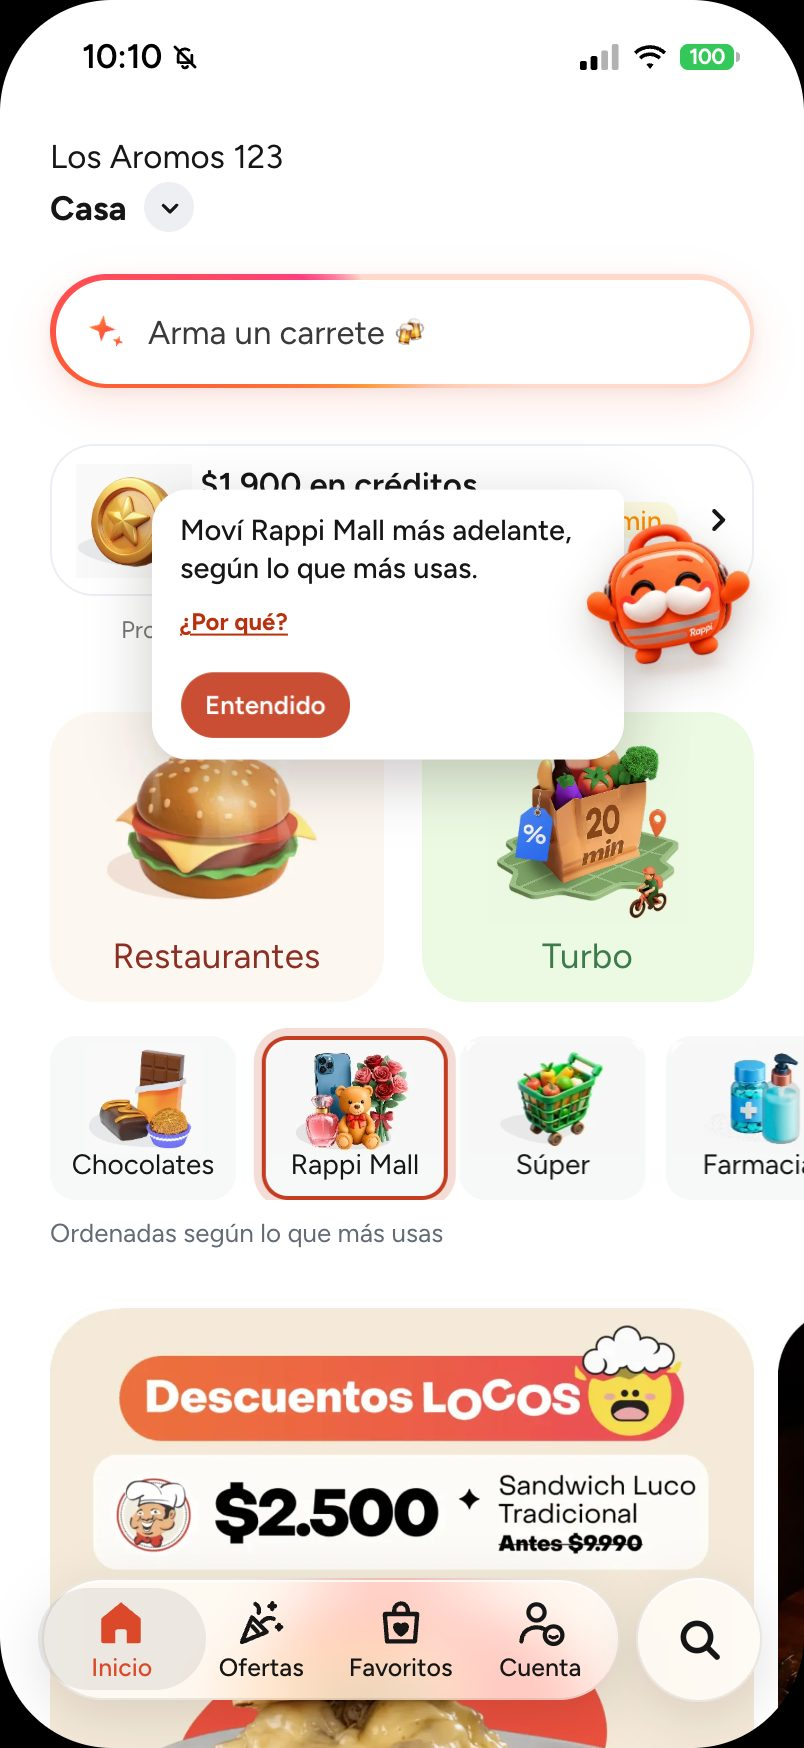
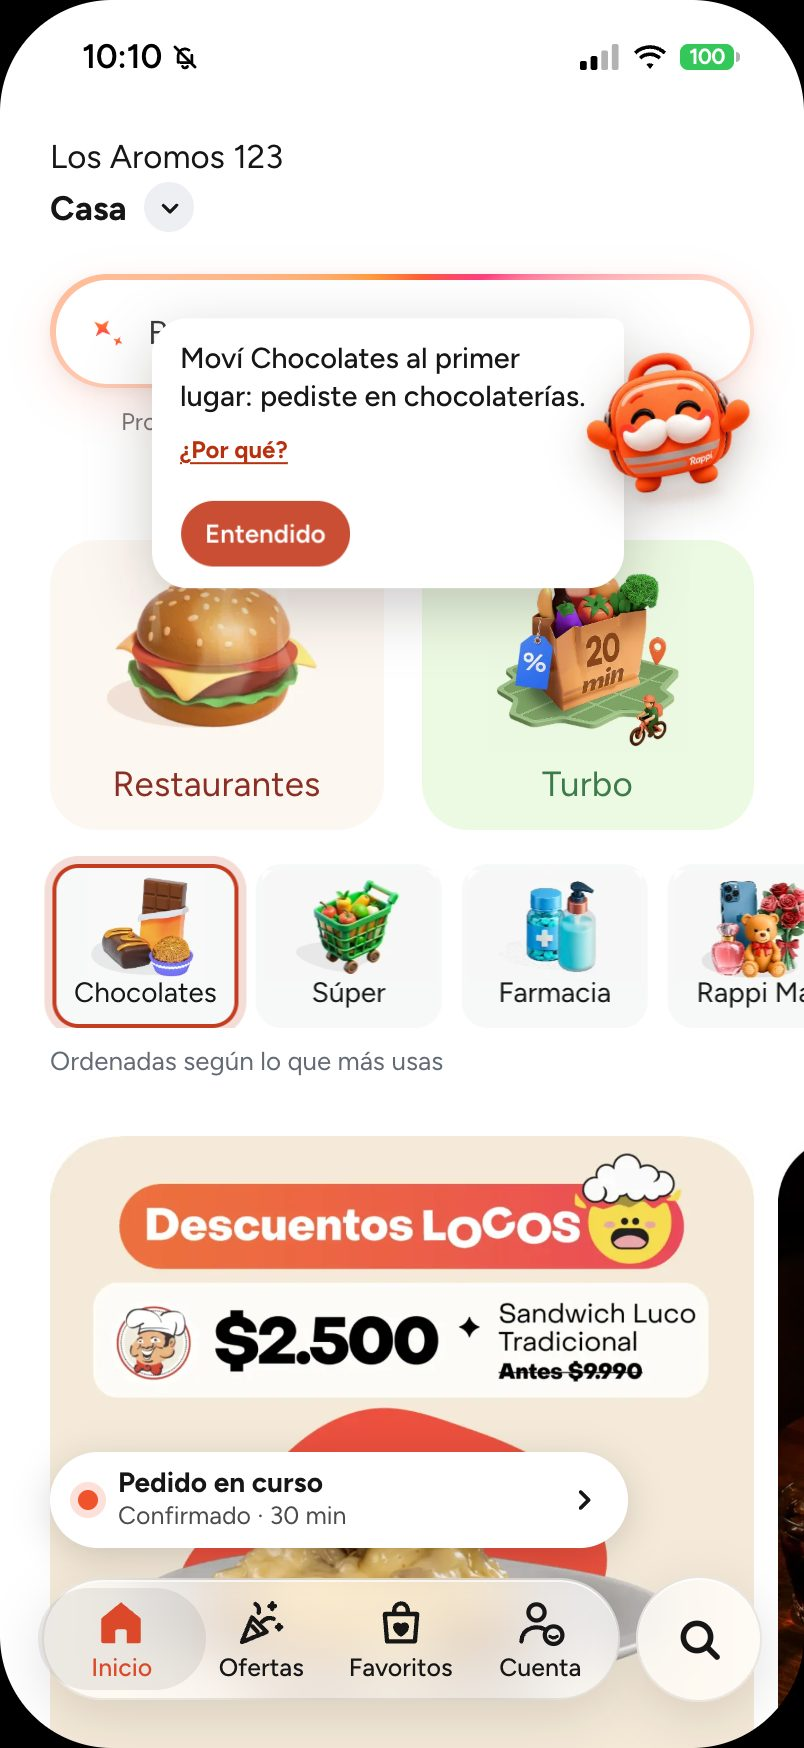
fix(screenshots): la Home dinámica vuelve del seguimiento y espera el pedido
Tras pagar, la app queda en el seguimiento (la Home debajo, oculta y sin la
barra de abajo): tab('Inicio') no llegaba y el script se caía antes de 03, 22
y 21. Ahora vuelve con "Volver al inicio" o la flecha, como checkHome de
mvp-check, y placeOrder espera el POST /orders en vez de 5,5 s fijos. El
producto de Chocolates sale de las filas de la vertical (la primera tienda del
catálogo real tenía todo agotado). Capturas 03, 22 y 21 nuevas, con sus textos
y alt en los README, y "paga dos compras" donde decía una.

diff --git a/prototipo-app/README.md b/prototipo-app/README.md
@@ -8,7 +8,7 @@ Hecho con Vite + React 19. **Necesita la API de [`rappi-ia`](../rappi-ia/)**: si
 
 ![Modo demo: la misma app en el prototipo final y en "Rappi hoy"](docs/screenshots/00-modo-demo.jpg)
 
-*Las capturas de las pantallas se tomaron el 03-11-2026 con la API corriendo sobre una copia de la base (`rappi_staging`) y el catálogo real (`npm run screenshots`); solo la ficha de Mochi es anterior. "¿Repetimos?" sale de la respuesta de ejemplo del contrato con un café real del catálogo: es una ilustración, no un hábito medido. Como el recorrido paga una compra y deja un pedido y sus eventos (`source = 'prototype'`) en la base que use la API, `npm run screenshots` se niega a correr sin `SCREENSHOTS_ALLOW_WRITES=1`: se corre con la API sobre `rappi_staging`, nunca sobre `rappi`.*
+*Las capturas de las pantallas se tomaron el 03-11-2026 (la Home que aprende, la vertical por probar y "¿Repetimos?", el 09-11-2026) con la API corriendo sobre una copia de la base (`rappi_staging`) y el catálogo real (`npm run screenshots`); solo la ficha de Mochi es anterior. "¿Repetimos?" sale de la respuesta de ejemplo del contrato con un café real del catálogo: es una ilustración, no un hábito medido. Como el recorrido paga dos compras (una en Ofertas y otra en Chocolates, para la Home dinámica) y deja sus pedidos y eventos (`source = 'prototype'`) en la base que use la API, `npm run screenshots` se niega a correr sin `SCREENSHOTS_ALLOW_WRITES=1`: se corre con la API sobre `rappi_staging`, nunca sobre `rappi`.*
 
 ## Cómo correrlo
 
@@ -61,7 +61,7 @@ Si la API se cae con la app ya abierta, el buscador con Mochi dice "Sin conexió
 | `npm run format` | Formato con Prettier |
 | `npm run format:check` | Revisa el formato sin cambiar nada (lo que corre el CI) |
 | `npm run build` | Build de producción en `dist/` |
-| `npm run screenshots` | Regenera las capturas de este README con el Chrome instalado (`CHROME_PATH` o `PLAYWRIGHT_CHANNEL` eligen otro). Necesita el MVP corriendo sobre una copia de la base (`DATABASE_URL=postgresql:///rappi_staging make mvp`), o una API sobre la copia en otro puerto (`VITE_API_URL`), y `SCREENSHOTS_ALLOW_WRITES=1`, porque paga una compra: sin la variable se niega |
+| `npm run screenshots` | Regenera las capturas de este README con el Chrome instalado (`CHROME_PATH` o `PLAYWRIGHT_CHANNEL` eligen otro). Necesita el MVP corriendo sobre una copia de la base (`DATABASE_URL=postgresql:///rappi_staging make mvp`), o una API sobre la copia en otro puerto (`VITE_API_URL`), y `SCREENSHOTS_ALLOW_WRITES=1`, porque paga dos compras (una en Ofertas y otra en Chocolates): sin la variable se niega |
 | `npm run demo:snapshot` | Graba la muestra del catálogo para la demo sin conexión desde una API sobre una copia de la base (ver "Demo sin conexión") |
 | `npm run demo:html` | Arma "Prototipo MVP.html": la app en un solo archivo, sin la API (ver "Demo sin conexión") |
 | `node scripts/make-icons.mjs` | Regenera los íconos de la app instalada (`public/`: manifiesto, iPhone y pestaña) desde la pose de frente de `src/assets/mochi-poses.webp`, sin el logo que trae la mochila, con el Chrome instalado |
@@ -126,8 +126,8 @@ La Home del prototipo final se ordena según cada persona, con el [motor multive
 
 | Home que aprende | Mochi propone una vertical | ¿Repetimos? |
 |:---:|:---:|:---:|
-| <img src="docs/screenshots/03-home-dinamica.jpg" width="240" alt="Home con los accesos reordenados: Chocolates y Rappi Mall primero, con la leyenda &quot;Ordenadas según lo que más usas&quot;"> | <img src="docs/screenshots/22-vertical-por-probar.jpg" width="240" alt="Mochi en la Home pregunta &quot;¿Y si pruebas algo de Súper?&quot; y, en &quot;¿Por qué?&quot;, dice &quot;Porque aún no pides en el súper&quot;"> | <img src="docs/screenshots/21-recompra.jpg" width="240" alt="Bloque de ejemplo &quot;¿Repetimos café? Pides cada 7 días.&quot; con un café molido del catálogo, Ver producto y Después"> |
-| Tras abrir dos veces Chocolates y una vez Rappi Mall, esos accesos suben. | Esa persona nunca pidió: Mochi le propone el súper y dice por qué. | Ilustración con la respuesta de ejemplo del contrato y un café real del catálogo; no es un hábito medido. |
+| <img src="docs/screenshots/03-home-dinamica.jpg" width="240" alt="Home tras un pedido en Chocolates: Chocolates sube al primer lugar, con la leyenda &quot;Ordenadas según lo que más usas&quot; y Mochi diciendo &quot;Moví Chocolates al primer lugar: pediste en chocolaterías.&quot;"> | <img src="docs/screenshots/22-vertical-por-probar.jpg" width="240" alt="Mochi en la Home pregunta &quot;¿Y si pruebas algo de Restaurantes?&quot; y, en &quot;¿Por qué?&quot;, dice &quot;Porque aún no pides en restaurantes: esto es lo que más se pide.&quot;"> | <img src="docs/screenshots/21-recompra.jpg" width="240" alt="Bloque de ejemplo &quot;¿Repetimos café? Pides cada 7 días.&quot; con un café molido del catálogo, Ver producto y Después"> |
+| Tras un pedido en Chocolates, Chocolates sube y Mochi dice por qué (abrir un acceso varias veces el mismo día no lo mueve). | Esa persona solo pidió en Chocolates (Retail): Mochi le propone Restaurantes, el siguiente peldaño, y dice por qué. | Ilustración con la respuesta de ejemplo del contrato y un café real del catálogo; no es un hábito medido. |
 
 ### Mochi, el buscador
 

diff --git a/README.md b/README.md
@@ -52,7 +52,7 @@ Es una **correlación, no un efecto**: quien ya pide mucho usa más verticales y
 
 | La Home que aprende | Mochi propone una vertical | "¿Repetimos?" | El buscador con Mochi |
 |:---:|:---:|:---:|:---:|
-| <img src="prototipo-app/docs/screenshots/03-home-dinamica.jpg" width="170" alt="Home con los accesos reordenados: Chocolates y Rappi Mall primero, con la leyenda &quot;Ordenadas según lo que más usas&quot;"> | <img src="prototipo-app/docs/screenshots/22-vertical-por-probar.jpg" width="170" alt="Mochi en la Home pregunta &quot;¿Y si pruebas algo de Súper?&quot; y, en &quot;¿Por qué?&quot;, dice &quot;Porque aún no pides en el súper&quot;, con los botones Abrir el súper y Después"> | <img src="prototipo-app/docs/screenshots/21-recompra.jpg" width="170" alt="Bloque de ejemplo &quot;¿Repetimos café? Pides cada 7 días.&quot; con un café molido del catálogo, Ver producto y Después"> | <img src="prototipo-app/docs/screenshots/20-asistente.jpg" width="170" alt="Buscador con Mochi tras tocar &quot;Arma un carrete&quot;: snacks y bebidas de Express, y la sugerencia de sumar jugos del Súper"> |
+| <img src="prototipo-app/docs/screenshots/03-home-dinamica.jpg" width="170" alt="Home tras un pedido en Chocolates: Chocolates sube al primer lugar, con la leyenda &quot;Ordenadas según lo que más usas&quot; y Mochi diciendo &quot;Moví Chocolates al primer lugar: pediste en chocolaterías.&quot;"> | <img src="prototipo-app/docs/screenshots/22-vertical-por-probar.jpg" width="170" alt="Mochi en la Home pregunta &quot;¿Y si pruebas algo de Restaurantes?&quot; y, en &quot;¿Por qué?&quot;, dice &quot;Porque aún no pides en restaurantes: esto es lo que más se pide.&quot;, con los botones Abrir restaurantes y Después"> | <img src="prototipo-app/docs/screenshots/21-recompra.jpg" width="170" alt="Bloque de ejemplo &quot;¿Repetimos café? Pides cada 7 días.&quot; con un café molido del catálogo, Ver producto y Después"> | <img src="prototipo-app/docs/screenshots/20-asistente.jpg" width="170" alt="Buscador con Mochi tras tocar &quot;Arma un carrete&quot;: snacks y bebidas de Express, y la sugerencia de sumar jugos del Súper"> |
 
 **Cómo cruza las verticales.** Una recomendación cruzada va concepto → complemento → búsqueda en la otra vertical: quien pide cerveza en Licores ve snacks salados de Express ("Porque llevas 🍺 cerveza"); quien pide pizza ve bebidas gaseosas, porque su primer complemento (cerveza) Mochi no lo ofrece; quien busca pañales no ve nada, porque sus complementos son de bebé y salud. Para elegir la vertical, el motor parte de la tabla de Rappi y la mezcla con la retención aprendida, vertical por vertical, con RappiFavor y RappiTravel al final; dentro de ella, mezcla lo más pedido con las reglas aprendidas con un peso λ elegido en validación (lo elige cada corrida del motor; con los simulados del 04-11, `make motor` lo deja en 0: ver [Límites](#límites)). Reglas de confianza: una sugerencia cruzada por respuesta, con su razón; nunca productos sensibles por iniciativa propia (medicamentos, salud sexual, tabaco, alcohol, bebé); Farmacia y Licores solo suben por señales de la propia persona; lo aprendido se ve y se borra.
 

diff --git a/docs/instalacion.md b/docs/instalacion.md
@@ -147,7 +147,7 @@ Ctrl-C detiene los tres; si uno se cae solo, detiene el resto. No descarga nada 
 
 Mientras la API está en marcha, también falla ante un error de la página o de la consola o una respuesta 4xx/5xx (solo se ignoran las imágenes de prueba, que no existen). Termina con "MVP check: 9 de 9 bien" y no deja nada escuchando. Necesita libres los puertos 8010, 5184 y 5185. **Borra y vuelve a sembrar `rappi_ia_test`:** comparte con `make test` y `make contract` de `rappi-ia/` un candado (`.git/rappi-ia-test-db.lock`, en la carpeta común de git, así que también entre worktrees; fuera de git, `rappi-ia/.test-db.lock`), así que si otra prueba está corriendo sale de inmediato con "Otra prueba está usando rappi_ia_test"; si el proceso que lo tenía murió (kill -9, apagón), el siguiente comando toma el candado solo; si el aviso persiste y nada usa la base, el mensaje dice cómo borrarlo (`rm -rf` con la ruta del candado). Funciona igual en Linux (sin `lsof`; con `CHROME_PATH` o `PLAYWRIGHT_CHANNEL` se elige otro Chrome) y es el job `mvp-check` del CI (que sube capturas de las revisiones que fallen).
 
-También: `make contract` en `rappi-ia/` reescribe las respuestas de ejemplo de la API que usa la app (`prototipo-app/src/api/fixtures/`; el CI falla si quedan desactualizadas), y `npm run screenshots` en `prototipo-app/` necesita la API corriendo y, como paga una compra, deja un pedido y sus eventos (`source = 'prototype'`) en la base que use la API. Para no tocar la base real, apunta la API a una copia: `DATABASE_URL=postgresql:///rappi_staging make mvp` (así se tomaron las capturas del 03-11-2026). Por eso el script se niega a correr sin la variable `SCREENSHOTS_ALLOW_WRITES=1` (`SCREENSHOTS_ALLOW_WRITES=1 npm run screenshots`). "¿Repetimos?" sale de la respuesta de ejemplo del contrato (`agent-offer-recompra.json`) con un café real del catálogo: es una ilustración, no un hábito medido. Las capturas del panel (`npm run screenshots` en `dashboard-empresa/`) usan la API si está arriba y, si no, los datos guardados de `src/fixtures/` (y lo avisan); no escriben en la base.
+También: `make contract` en `rappi-ia/` reescribe las respuestas de ejemplo de la API que usa la app (`prototipo-app/src/api/fixtures/`; el CI falla si quedan desactualizadas), y `npm run screenshots` en `prototipo-app/` necesita la API corriendo y, como paga dos compras (una en Ofertas y otra en Chocolates, para la Home dinámica), deja sus pedidos y eventos (`source = 'prototype'`) en la base que use la API. Para no tocar la base real, apunta la API a una copia: `DATABASE_URL=postgresql:///rappi_staging make mvp` (así se tomaron las capturas del 03-11-2026). Por eso el script se niega a correr sin la variable `SCREENSHOTS_ALLOW_WRITES=1` (`SCREENSHOTS_ALLOW_WRITES=1 npm run screenshots`). "¿Repetimos?" sale de la respuesta de ejemplo del contrato (`agent-offer-recompra.json`) con un café real del catálogo: es una ilustración, no un hábito medido. Las capturas del panel (`npm run screenshots` en `dashboard-empresa/`) usan la API si está arriba y, si no, los datos guardados de `src/fixtures/` (y lo avisan); no escriben en la base.
 
 ## 6. Actualización semanal
 
